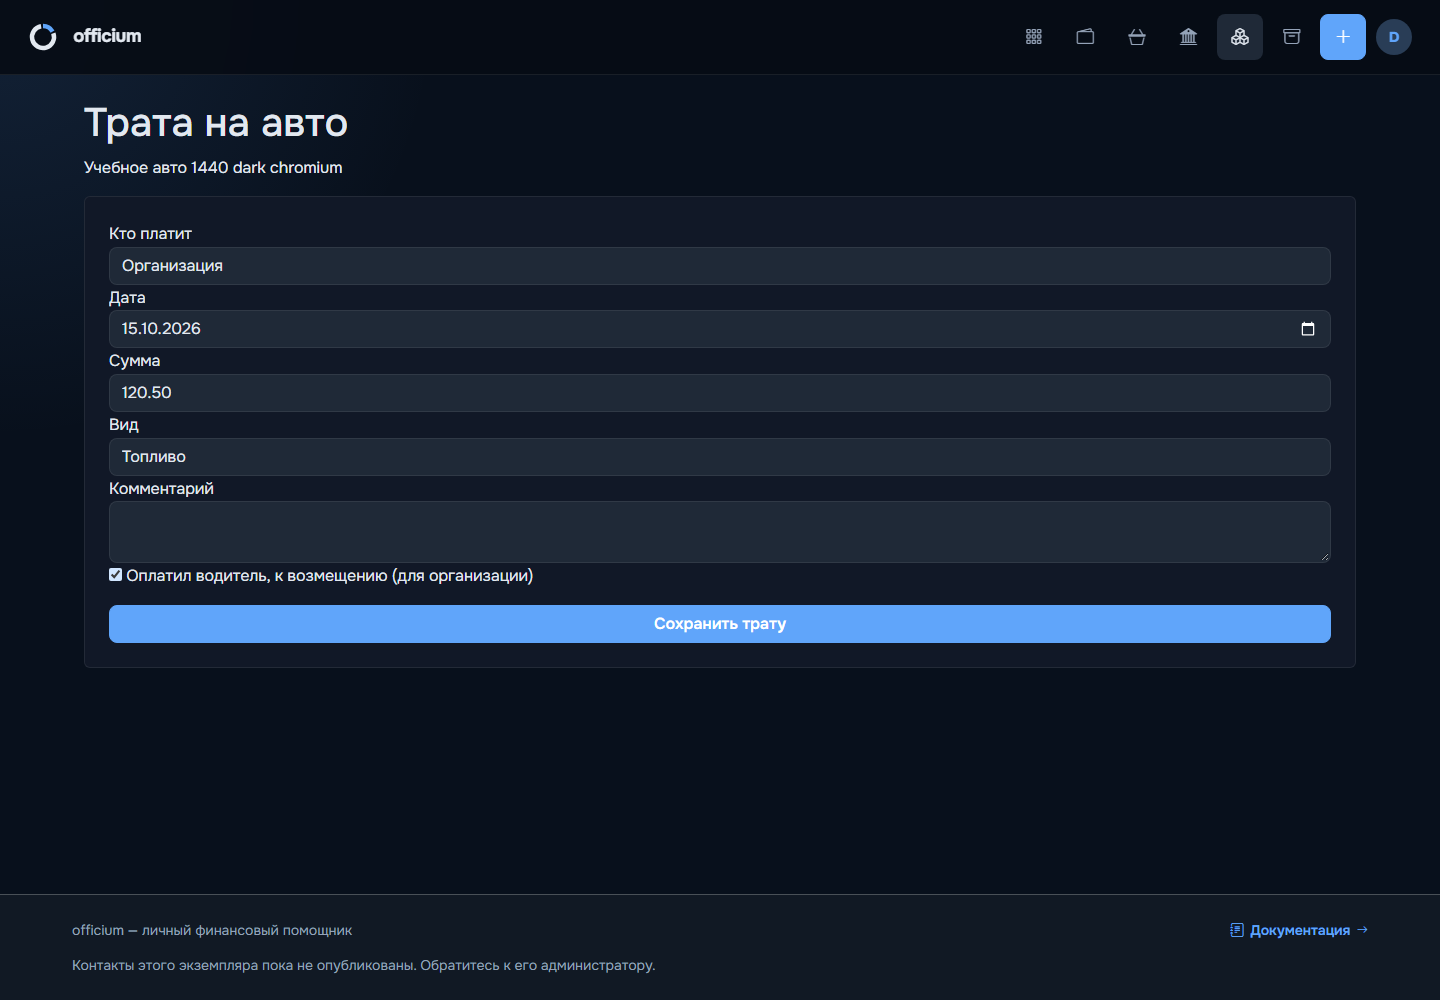
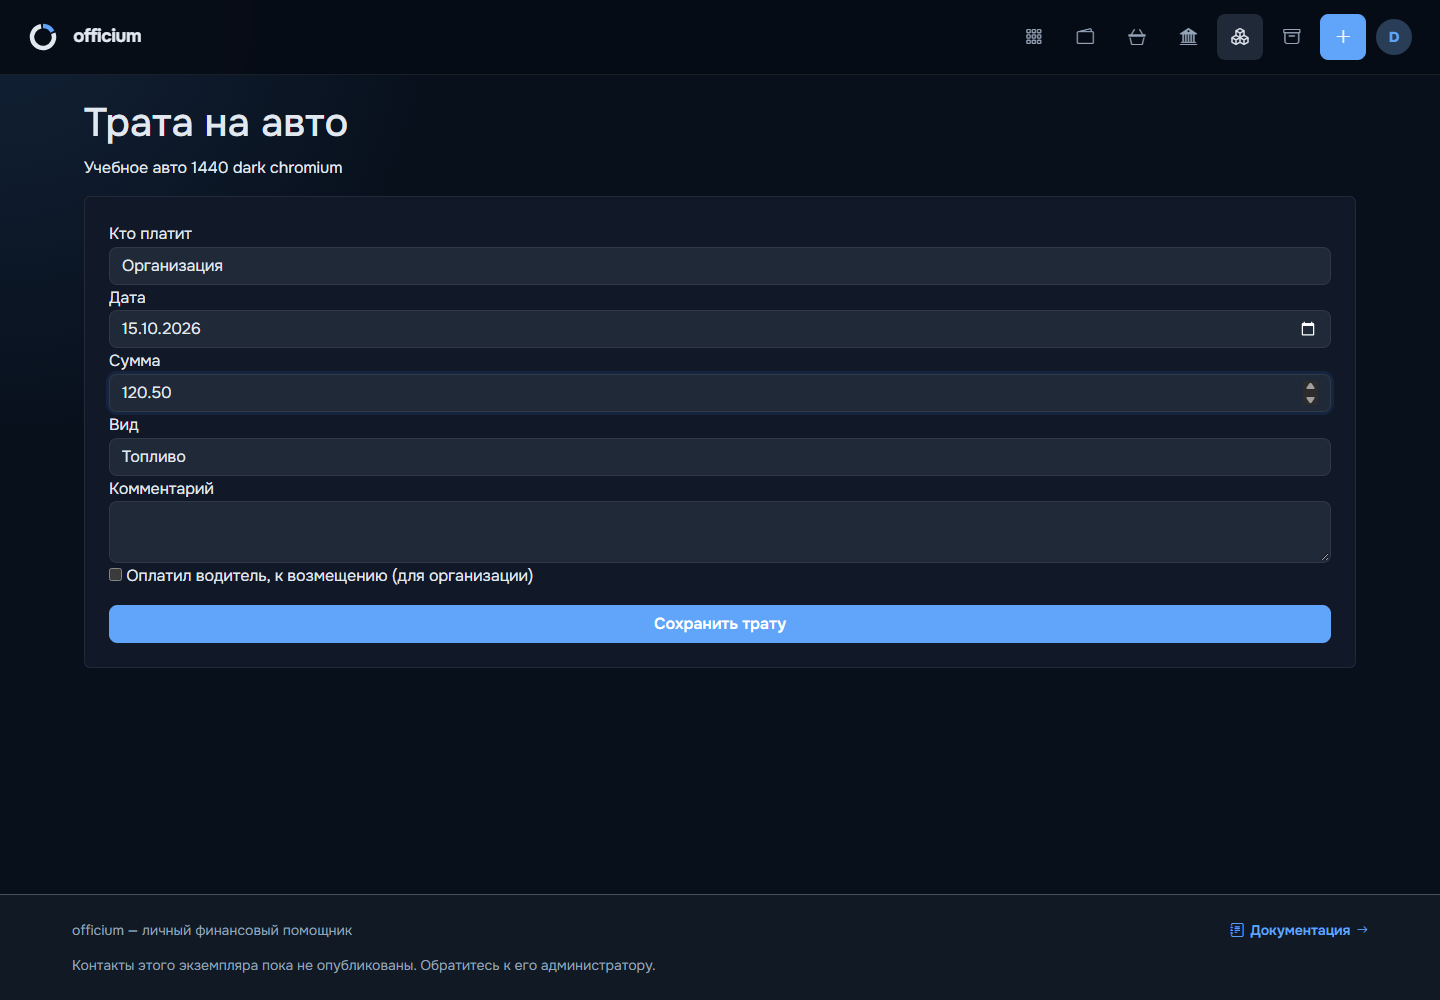
fix(vehicles): expose reimbursement controls on vehicle expenses

Changed region(s): [[0.9062, 0.372, 0.9375, 0.403], [0.0625, 0.558, 0.0938, 0.589]]

diff --git a/templates/vehicles/detail.html b/templates/vehicles/detail.html
@@ -25,6 +25,14 @@
 {% if tab=='expenses' %}<p class="mt-3">Текущий месяц: свои {{ report.totals.self|money }}, организация {{ report.totals.organization|money }}, всего {{ report.totals.total|money }}</p><a class="btn btn-outline-primary" href="{{ url_for('vehicle_reports',vehicle_id=vehicle.id) }}">Отчёты</a>{% endif %}
 {% if not vehicle.archived_at and vehicle.status=='active' %}<a class="btn btn-primary my-3" href="{{ url_for('vehicle_expense',vehicle_id=vehicle.id) }}">Добавить расход на авто</a>{% endif %}
 <div class="table-responsive"><table class="table"><thead><tr><th>Дата</th><th>Название</th><th>Сумма</th></tr></thead><tbody>{% for expense in expenses[:5] if tab=='overview' %}<tr><td>{{ expense.expense_date.strftime('%d.%m.%Y') }}</td><td><a href="{{ url_for('edit_expense',expense_id=expense.id) }}">{{ expense.title }}</a></td><td class="text-nowrap">{{ expense.amount|money }}</td></tr>{% endfor %}{% if tab=='expenses' %}{% for expense in expenses %}<tr><td>{{ expense.expense_date.strftime('%d.%m.%Y') }}</td><td><a href="{{ url_for('edit_expense',expense_id=expense.id) }}">{{ expense.title }}</a></td><td class="text-nowrap">{{ expense.amount|money }}</td></tr>{% endfor %}{% endif %}{% if not expenses %}<tr><td colspan="3">Расходов пока нет</td></tr>{% endif %}</tbody></table></div>
+{% if tab=='expenses' %}
+<h3 class="h5 mt-4">Траты организации</h3>
+{% for cost in organization_costs %}<article class="card p-3 mb-2">
+  <p>{{ cost.date.strftime('%d.%m.%Y') }} · {{ cost_kinds[cost.kind] }} · {{ cost.amount|money }}</p>
+  {% if cost.comment %}<p>{{ cost.comment }}</p>{% endif %}
+  {% with cost_vehicle=vehicle, reimbursement_return='vehicle' %}{% include 'vehicles/_reimbursement.html' %}{% endwith %}
+</article>{% else %}<p class="text-muted">Трат организации пока нет.</p>{% endfor %}
+{% endif %}
 {% endif %}
 </section>
 </div>

diff --git a/tests/e2e/vehicle-costs.spec.js b/tests/e2e/vehicle-costs.spec.js
@@ -25,11 +25,15 @@ for (const width of [1440,390]) for (const theme of ['light','dark']) {
       await page.getByLabel('Кто платит').selectOption(payer);
       await page.getByLabel('Дата',{exact:true}).fill('2026-10-15');
       await page.getByLabel('Сумма',{exact:true}).fill('120.50');
-      if(payer==='organization') await page.getByLabel('Оплатил водитель',{exact:false}).check();
       if(payer==='organization') await capture('payer-form');
       await page.getByRole('button',{name:'Сохранить трату'}).click();
       await page.waitForURL(/reports/);
     }
+    await page.goto(`/vehicles/${id}?tab=expenses`);
+    await page.getByRole('button',{name:'Оплатил водитель, к возмещению',exact:true}).click();
+    await expect(page).toHaveURL(new RegExp(`/vehicles/${id}\\?tab=expenses$`));
+    await expect(page.getByRole('button',{name:'Возмещено',exact:true})).toBeVisible();
+    await capture('vehicle-reimbursement');
     await page.goto(`/vehicles/reports?vehicle_id=${id}&date_from=2026-10-01&date_to=2026-10-31`);
     await expect(page.locator('body')).toContainText('241');
     await capture('month-report');
@@ -58,5 +62,10 @@ for (const width of [1440,390]) for (const theme of ['light','dark']) {
     const download=await downloadPromise; expect(download.suggestedFilename()).toBe('vehicle-report.csv');
     await page.getByRole('button',{name:'Возмещено',exact:true}).click();
     await page.waitForURL(/reports/);
+    await page.goto(`/vehicles/${id}?tab=expenses`);
+    await expect(page.getByRole('button',{name:'Снять отметку возмещения',exact:true})).toBeVisible();
+    await page.getByRole('button',{name:'Снять отметку возмещения',exact:true}).click();
+    await expect(page.getByRole('button',{name:'Возмещено',exact:true})).toBeVisible();
+
   });
 }

diff --git a/templates/vehicles/report.html b/templates/vehicles/report.html
@@ -39,4 +39,4 @@
 </section>
 <div id="vehicle-day-spends" class="vehicle-day-spends"></div>
 {% if report.selected_day %}<h2>Траты {{ report.selected_day }}</h2>{% set rows=report.day_rows %}{% else %}<h2>Траты периода</h2>{% set rows=report.rows %}{% endif %}
-{% for row in rows %}<article class="card p-3 mb-2"><p>{{ row.date }} · {{ kinds[row.kind] }} · {{ 'Я' if row.payer=='self' else 'Организация' }} · {{ row.amount|money }}</p><p>{{ row.comment }}</p>{% if row.payer=='organization' %}{% set v=report.vehicles|selectattr('id','equalto',row.vehicle_id)|first %}{% if not v.archived_at and (row.unpaid or row.reimbursed_at) %}<form method="post" action="{{ url_for('vehicle_reimburse',cost_id=row.id) }}"><input type="hidden" name="csrf_token" value="{{ csrf_token() }}">{% if row.unpaid %}<label>Дата возмещения<input type="date" name="date" value="{{ today }}" required></label><button class="btn btn-outline-primary">Возмещено</button>{% else %}<button class="btn btn-outline-secondary">Снять отметку возмещения</button>{% endif %}</form>{% endif %}{% endif %}</article>{% else %}<p>Трат нет</p>{% endfor %}{% endblock %}
+{% for row in rows %}<article class="card p-3 mb-2"><p>{{ row.date }} · {{ kinds[row.kind] }} · {{ 'Я' if row.payer=='self' else 'Организация' }} · {{ row.amount|money }}</p><p>{{ row.comment }}</p>{% if row.payer=='organization' %}{% set v=report.vehicles|selectattr('id','equalto',row.vehicle_id)|first %}{% with cost=row, cost_vehicle=v %}{% include 'vehicles/_reimbursement.html' %}{% endwith %}{% endif %}</article>{% else %}<p>Трат нет</p>{% endfor %}{% endblock %}

diff --git a/templates/vehicles/_reimbursement.html b/templates/vehicles/_reimbursement.html
@@ -1,0 +1,16 @@
+{% if cost.reimbursed_at %}<p class="text-success mb-2">Возмещено {{ cost.reimbursed_at.strftime('%d.%m.%Y') }}</p>
+{% elif cost.unpaid %}<p class="text-warning mb-2">Оплатил водитель · К возмещению</p>
+{% else %}<p class="text-muted mb-2">Оплачено организацией</p>{% endif %}
+{% if not cost_vehicle.archived_at %}
+<form method="post" action="{{ url_for('vehicle_reimburse' if cost.paid_by_driver else 'vehicle_driver_payment',cost_id=cost.id) }}" class="d-flex flex-wrap align-items-end gap-2">
+  <input type="hidden" name="csrf_token" value="{{ csrf_token() }}">
+  <input type="hidden" name="return_to" value="{{ reimbursement_return|default('report') }}">
+  {% if not cost.paid_by_driver %}
+    <button class="btn btn-outline-primary">Оплатил водитель, к возмещению</button>
+  {% elif cost.reimbursed_at %}
+    <button class="btn btn-outline-secondary">Снять отметку возмещения</button>
+  {% else %}
+    <label class="form-label mb-0" for="reimbursement-{{ cost.id }}">Дата возмещения<input id="reimbursement-{{ cost.id }}" class="form-control" type="date" name="date" value="{{ today }}" min="{{ cost.date }}" max="{{ today }}" required></label>
+    <button class="btn btn-outline-primary">Возмещено</button>
+  {% endif %}
+</form>{% endif %}

diff --git a/tests/test_vehicle_costs.py b/tests/test_vehicle_costs.py
@@ -118,3 +118,43 @@ class VehicleCostsTestCase(test_vehicle_service.VehicleServiceTestCase):
         self.spend(vehicle,payer='self',kind='parts',title='Учебное название')
         report=costs.vehicle_report(self.owner,'2026-03-01','2026-03-31')
         self.assertEqual(report['kinds']['parts']['self'],Decimal('125.50'))
+
+    def test_driver_payment_recovery_and_vehicle_controls(self):
+        vehicle=self.vehicle(is_company=True)
+        cost=self.spend(vehicle,payer='organization')
+        self.login()
+        page=self.client.get(f'/vehicles/{vehicle.id}?tab=expenses').get_data(as_text=True)
+        self.assertIn('Траты организации',page)
+        self.assertIn('Оплатил водитель, к возмещению',page)
+        response=self.client.post(f'/vehicles/costs/{cost.id}/driver-payment',data=dict(return_to='vehicle'))
+        self.assertTrue(response.location.endswith(f'/vehicles/{vehicle.id}?tab=expenses'))
+        self.assertTrue(cost.paid_by_driver)
+        page=self.client.get(response.location).get_data(as_text=True)
+        self.assertIn('>Возмещено</button>',page)
+        response=self.client.post(f'/vehicles/costs/{cost.id}/reimburse',data=dict(date='2026-03-16',return_to='vehicle'))
+        self.assertEqual(cost.reimbursed_at,date(2026,3,16))
+        self.assertTrue(response.location.endswith('?tab=expenses'))
+        page=self.client.get(response.location).get_data(as_text=True)
+        self.assertIn('Снять отметку возмещения',page)
+        self.client.post(f'/vehicles/costs/{cost.id}/reimburse',data=dict(return_to='vehicle'))
+        self.assertIsNone(cost.reimbursed_at)
+        self.assertEqual(Expense.query.count(),0)
+        self.login(self.other)
+        self.assertEqual(self.client.post(f'/vehicles/costs/{cost.id}/driver-payment').status_code,404)
+        self.login(self.admin)
+        self.assertEqual(self.client.post(f'/vehicles/costs/{cost.id}/driver-payment').status_code,404)
+        self.login()
+        vehicle_service.archive_vehicle(self.owner,vehicle.id,'sold')
+        with self.assertRaises(ValueError): costs.mark_paid_by_driver(self.owner,cost.id)
+        page=self.client.get(f'/vehicles/{vehicle.id}?tab=expenses').get_data(as_text=True)
+        self.assertNotIn('>Возмещено</button>',page)
+        self.app.config['VEHICLES_ENABLED']=False
+        self.assertEqual(self.client.post(f'/vehicles/costs/{cost.id}/driver-payment').status_code,404)
+
+    def test_driver_payment_requires_csrf(self):
+        vehicle=self.vehicle(is_company=True)
+        cost=self.spend(vehicle,payer='organization')
+        self.login()
+        self.app.config['WTF_CSRF_ENABLED']=True
+        self.assertEqual(self.client.post(f'/vehicles/costs/{cost.id}/driver-payment').status_code,400)
+        self.assertFalse(cost.paid_by_driver)

diff --git a/app/services/vehicle_cost_service.py b/app/services/vehicle_cost_service.py
@@ -42,6 +42,29 @@ def create_vehicle_spend(user, vehicle, payer=None, *, amount, cost_date, kind='
     return cost
 
 
+def mark_paid_by_driver(user, cost_id):
+    vehicles._user(user)
+    cost = VehicleCost.query.filter_by(id=cost_id, user_id=user.id).with_for_update().first_or_404()
+    vehicle = vehicles.get_vehicle_for_user(user, cost.vehicle_id, for_update=True)
+    vehicles._writable(vehicle)
+    cost.paid_by_driver = True
+    record_activity('vehicle_cost_driver_payment', user, entity_type='vehicle_cost', entity_id=cost.id, commit=False)
+    db.session.commit()
+    return cost
+
+
+def _cost_row(item):
+    return dict(id=item.id, vehicle_id=item.vehicle_id, date=item.cost_date, amount=item.amount,
+        payer='organization', kind=item.kind, comment=item.comment or '', paid_by_driver=item.paid_by_driver,
+        unpaid=item.paid_by_driver and not item.reimbursed_at, reimbursed_at=item.reimbursed_at)
+
+
+def vehicle_cost_rows(user, vehicle_id):
+    vehicle = vehicles.get_vehicle_for_user(user, vehicle_id)
+    return [_cost_row(item) for item in VehicleCost.query.filter_by(user_id=user.id, vehicle_id=vehicle.id)
+        .order_by(VehicleCost.cost_date.desc(), VehicleCost.id.desc()).all()]
+
+
 def mark_reimbursed(user, cost_id, reimbursement_date=None):
     vehicles._user(user)
     cost = VehicleCost.query.filter_by(id=cost_id, user_id=user.id).with_for_update().first_or_404()
@@ -78,7 +101,7 @@ def vehicle_report(user, date_from=None, date_to=None, vehicle_ids=None, *, unpa
         kind = item.vehicle_cost_kind or 'other'
         rows.append(dict(id=item.id, vehicle_id=item.vehicle_id, date=item.expense_date, amount=item.amount, payer='self', kind=kind, comment=item.comment or '', unpaid=False, reimbursed_at=None))
     for item in VehicleCost.query.filter(VehicleCost.user_id == user.id, VehicleCost.vehicle_id.in_(ids), VehicleCost.cost_date.between(start, end)).all():
-        rows.append(dict(id=item.id, vehicle_id=item.vehicle_id, date=item.cost_date, amount=item.amount, payer='organization', kind=item.kind, comment=item.comment or '', unpaid=item.paid_by_driver and not item.reimbursed_at, reimbursed_at=item.reimbursed_at))
+        rows.append(_cost_row(item))
     rows.sort(key=lambda row: (row['date'], row['id']))
     if unpaid:
         rows = [row for row in rows if row['unpaid']]

diff --git a/app/routes/vehicles.py b/app/routes/vehicles.py
@@ -66,6 +66,7 @@ def init_app(app):
         return render_template('vehicles/detail.html', vehicle=vehicle, mileage=service.current_mileage(vehicle),
             expenses=service.vehicle_expenses(current_user, vehicle_id), today=service.today(),
             report=costs.vehicle_report(current_user, vehicle_ids=[vehicle_id]),
+            organization_costs=costs.vehicle_cost_rows(current_user, vehicle_id) if request.args.get('tab') == 'expenses' else [], cost_kinds=costs.KINDS,
             readings=VehicleOdometerReading.query.filter_by(vehicle_id=vehicle.id).order_by(VehicleOdometerReading.reading_date.desc()).all())
 
     @app.route('/vehicles/<int:vehicle_id>/edit', methods=['GET', 'POST'])
@@ -141,10 +142,20 @@ def init_app(app):
                 headers={'Content-Disposition': 'attachment; filename=vehicle-report.csv'})
         return render_template('vehicles/report.html', report=report, kinds=costs.KINDS, today=service.today())
 
+    @app.route('/vehicles/costs/<int:cost_id>/driver-payment', methods=['POST'])
+    @login_required
+    def vehicle_driver_payment(cost_id):
+        result = _attempt(lambda: costs.mark_paid_by_driver(current_user, cost_id))
+        if result and request.form.get('return_to') == 'vehicle':
+            return redirect(url_for('vehicle_detail', vehicle_id=result.vehicle_id, tab='expenses'))
+        return redirect(url_for('vehicle_reports'))
+
     @app.route('/vehicles/costs/<int:cost_id>/reimburse', methods=['POST'])
     @login_required
     def vehicle_reimburse(cost_id):
-        _attempt(lambda: costs.mark_reimbursed(current_user, cost_id, request.form.get('date')))
+        result = _attempt(lambda: costs.mark_reimbursed(current_user, cost_id, request.form.get('date')))
+        if result and request.form.get('return_to') == 'vehicle':
+            return redirect(url_for('vehicle_detail', vehicle_id=result.vehicle_id, tab='expenses'))
         return redirect(url_for('vehicle_reports'))
 
     @app.route('/admin/registration-countries', methods=['GET', 'POST'])

diff --git a/CHANGELOG.md b/CHANGELOG.md
@@ -21,6 +21,10 @@
 - Справочник стран учёта для суперадминистратора, нормализация номеров РФ,
   собственные SVG кузовов и флагов, адаптивные экраны для обеих тем.
 
+### Исправлено
+
+- Во вкладке расходов автомобиля доступны траты организации и возмещение; пропущенную отметку оплаты водителем можно поставить после создания траты.
+
 ### Изменено
 
 - Итоги месяца и ссылка на отчёты в карточке автомобиля показываются только во вкладке «Расходы».
